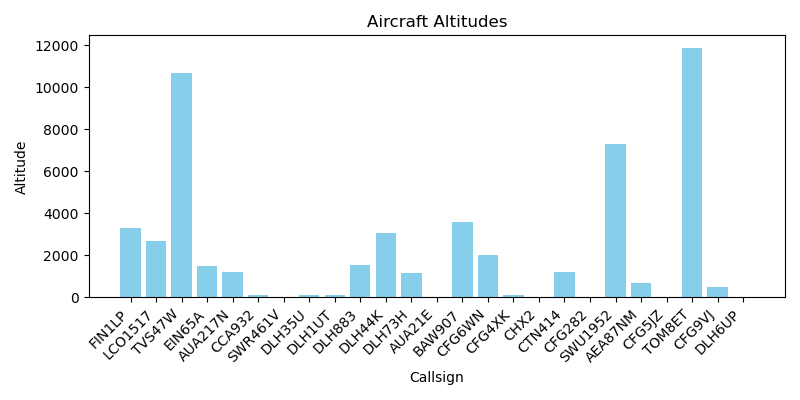
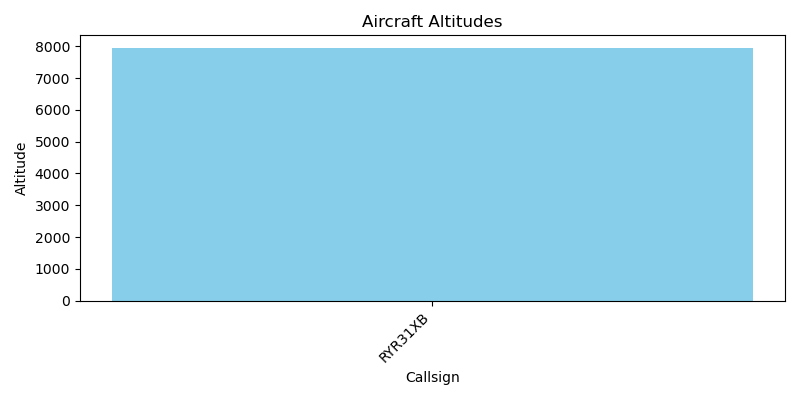
tests

diff --git a/aircraft_explorer/apis.py b/aircraft_explorer/apis.py
@@ -76,7 +76,7 @@ def find_nearest_airports(lat, lon, airports_data, limit=5):
             continue
     airport_distances.sort(key=lambda x: x[0])
     return [airport for distance, airport in airport_distances[:limit]]
-
+#ahmed's code for fetching live aircraft data from OpenSky Network
 def get_live_aircraft(lat_min, lon_min, lat_max, lon_max):
     """Fetch live aircraft states within a bounding box."""
     url = "https://opensky-network.org/api/states/all"